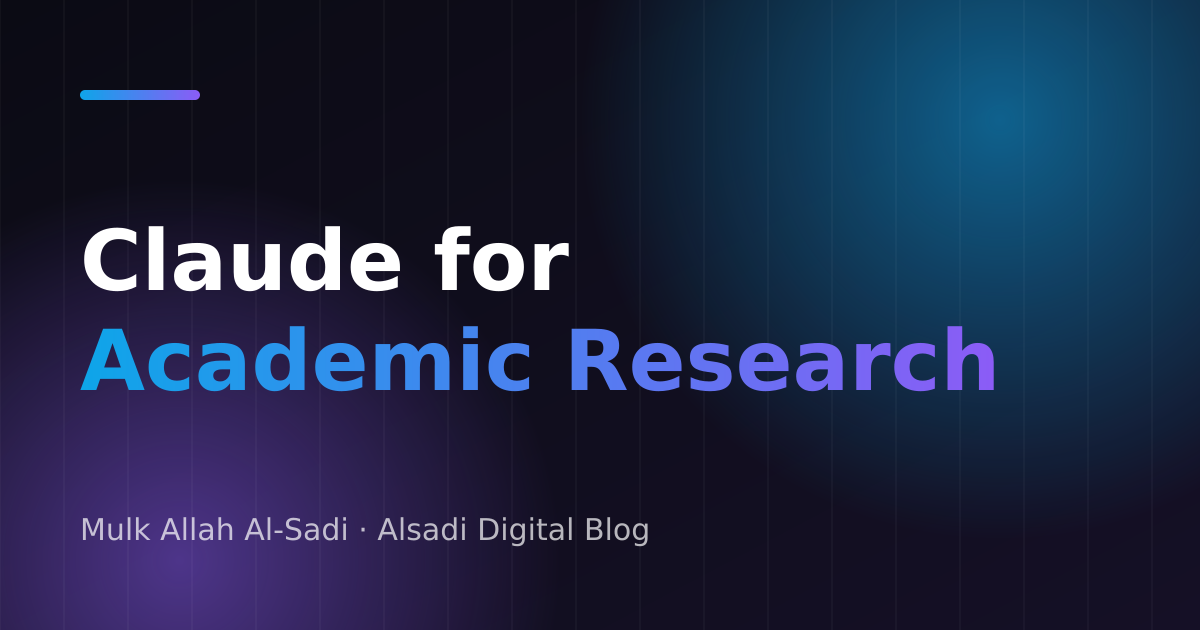
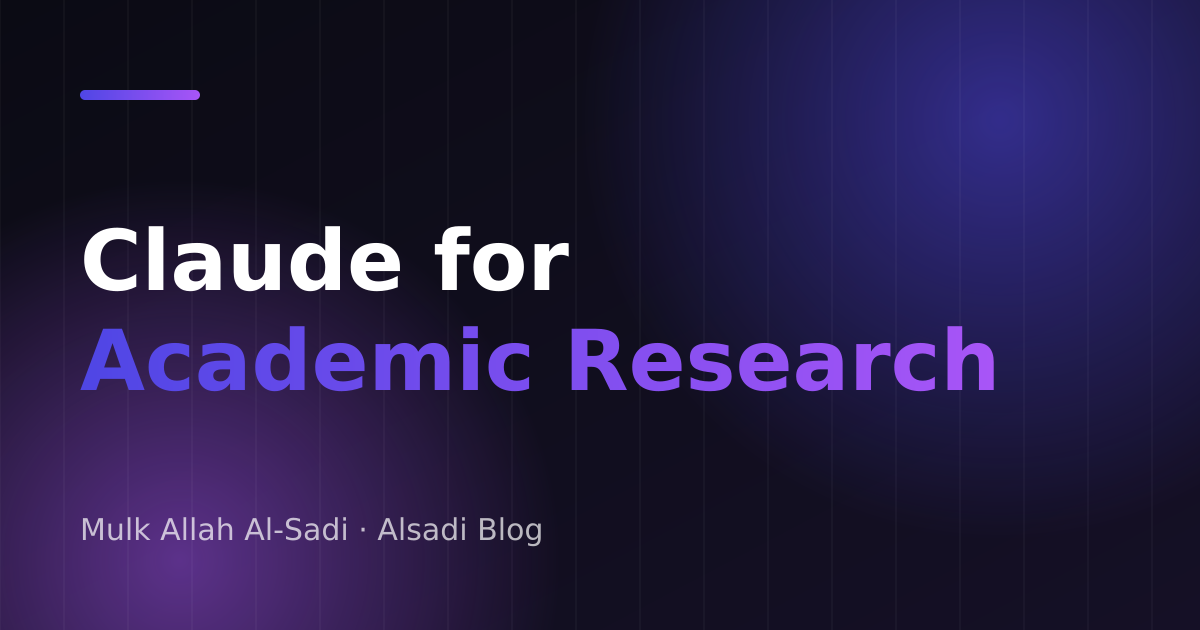
Rename brand from Alsadi Digital to Alsadi (السعدي)
- Nav/logo text, homepage hero and about, about/contact/blog metadata, OG site_name, JSON-LD publisher
- Store name: Alsadi Store / متجر السعدي (footer, metadata, emails' default sender name, order emails, admin default)
- manifest.json name, terms/privacy copy, README title, .env.example comment
- Blog covers re-rendered with 'Alsadi Blog' footer; cover URLs bumped to ?v=3
- Domain alsadidigital.com and the 'Digital Store' button label unchanged

Changed region(s): [[0.0617, 0.0, 1.0, 0.6333], [0.4008, 0.8143, 0.555, 0.8746], [0.0617, 0.1206, 0.1542, 0.181]]

diff --git a/src/components/site/company-home.tsx b/src/components/site/company-home.tsx
@@ -12,10 +12,10 @@ export const CONTACT_EMAIL = 'mulkallah7@gmail.com'
 
 const copy = {
   ar: {
-    badge: 'منصة السعدي الرقمية',
+    badge: 'منصة السعدي',
     title: 'منصة رقمية تجمع المعرفة والتقنية والمنتجات في مكان واحد',
     lead:
-      'السعدي الرقمية منصة عربية مستقلة أسسها ملك الله السعدي، طالب هندسة البرمجيات ومطوّر الـ full-stack، لتكون بيتًا واحدًا لثلاثة أشياء: متجر للمنتجات والدورات الرقمية، وخدمات برمجية وتقنية، ومحتوى تعليمي مجاني عن الذكاء الاصطناعي والإنتاجية.',
+      '«السعدي» منصة عربية مستقلة أسسها ملك الله السعدي، طالب هندسة البرمجيات ومطوّر الـ full-stack، لتكون بيتًا واحدًا لثلاثة أشياء: متجر للمنتجات والدورات الرقمية، وخدمات برمجية وتقنية، ومحتوى تعليمي مجاني عن الذكاء الاصطناعي والإنتاجية.',
     ctaStore: 'تصفّح المتجر الرقمي',
     ctaPortfolio: 'تعرّف على المؤسس',
     servicesTitle: 'ماذا تقدّم المنصة؟',
@@ -50,9 +50,9 @@ const copy = {
         link: 'اقرأ المدونة',
       },
     ],
-    aboutTitle: 'عن السعدي الرقمية',
+    aboutTitle: 'عن منصة السعدي',
     aboutBody: [
-      'بدأت السعدي الرقمية من قناعة بسيطة: المحتوى التقني الجيد باللغة العربية ما زال قليلًا، وكثير من الأدوات الحديثة تبدو معقدة لمن لم يجرّبها بعد. لذلك نحاول أن نقدم الشرح بلغة واضحة، والمنتج بجودة نثق بها، والخدمة بأسلوب يحترم وقت صاحبها.',
+      'بدأت منصة السعدي من قناعة بسيطة: المحتوى التقني الجيد باللغة العربية ما زال قليلًا، وكثير من الأدوات الحديثة تبدو معقدة لمن لم يجرّبها بعد. لذلك نحاول أن نقدم الشرح بلغة واضحة، والمنتج بجودة نثق بها، والخدمة بأسلوب يحترم وقت صاحبها.',
       'خلف المنصة مؤسسها ملك الله السعدي، طالب هندسة برمجيات ومطوّر full-stack، شغوف ببناء تقنيات ذكاء اصطناعي تُحدث أثرًا حقيقيًا في حياة الناس. كل ما تراه هنا، من المتجر إلى المدونة، مبني ومُدار بشكل مستقل.',
     ],
     aboutLink: 'اقرأ المزيد عنّا',
@@ -65,10 +65,10 @@ const copy = {
     contactCta: 'صفحة التواصل',
   },
   en: {
-    badge: 'Alsadi Digital Platform',
+    badge: 'Alsadi Platform',
     title: 'One digital platform for knowledge, technology and products',
     lead:
-      'Alsadi Digital is an independent Arabic platform founded by Mulk Allah Al-Sadi, a software engineering student and full-stack developer, to bring three things under one roof: a store for digital products and courses, software and tech services, and free educational content about AI and productivity.',
+      'Alsadi is an independent Arabic platform founded by Mulk Allah Al-Sadi, a software engineering student and full-stack developer, to bring three things under one roof: a store for digital products and courses, software and tech services, and free educational content about AI and productivity.',
     ctaStore: 'Browse the Digital Store',
     ctaPortfolio: 'Meet the founder',
     servicesTitle: 'What the platform offers',
@@ -103,9 +103,9 @@ const copy = {
         link: 'Read the blog',
       },
     ],
-    aboutTitle: 'About Alsadi Digital',
+    aboutTitle: 'About Alsadi',
     aboutBody: [
-      'Alsadi Digital started from a simple belief: good technical content in Arabic is still scarce, and many modern tools look complicated until someone explains them. So we aim for clear explanations, products we trust, and services that respect our clients’ time.',
+      'Alsadi started from a simple belief: good technical content in Arabic is still scarce, and many modern tools look complicated until someone explains them. So we aim for clear explanations, products we trust, and services that respect our clients’ time.',
       'Behind the platform is its founder, Mulk Allah Al-Sadi, a software engineering student and full-stack developer passionate about building AI technology that makes a real difference in people’s lives. Everything here, from the store to the blog, is built and run independently.',
     ],
     aboutLink: 'Read more about us',

diff --git a/src/app/(store)/terms/page.tsx b/src/app/(store)/terms/page.tsx
@@ -2,7 +2,7 @@ import { Metadata } from 'next'
 
 export const metadata: Metadata = {
   title: 'Terms of Service',
-  description: 'Terms of service for Alsadi Digital Store',
+  description: 'Terms of service for Alsadi Store',
 }
 
 export default function TermsPage() {
@@ -18,7 +18,7 @@ export default function TermsPage() {
         <section className="mb-8">
           <h2 className="text-2xl font-semibold mb-4">1. Acceptance of Terms</h2>
           <p className="text-muted-foreground">
-            By accessing and using Alsadi Digital Store, you accept and agree to be bound by 
+            By accessing and using Alsadi Store, you accept and agree to be bound by 
             these Terms of Service. If you do not agree to these terms, please do not use our services.
           </p>
         </section>
@@ -78,7 +78,7 @@ export default function TermsPage() {
           <h2 className="text-2xl font-semibold mb-4">6. Intellectual Property</h2>
           <p className="text-muted-foreground">
             All content on this platform, including but not limited to text, graphics, logos, 
-            and software, is the property of Alsadi Digital Store or its content suppliers and 
+            and software, is the property of Alsadi Store or its content suppliers and 
             is protected by intellectual property laws.
           </p>
         </section>
@@ -86,7 +86,7 @@ export default function TermsPage() {
         <section className="mb-8">
           <h2 className="text-2xl font-semibold mb-4">7. Limitation of Liability</h2>
           <p className="text-muted-foreground">
-            Alsadi Digital Store shall not be liable for any indirect, incidental, special, 
+            Alsadi Store shall not be liable for any indirect, incidental, special, 
             consequential, or punitive damages resulting from your use of or inability to use 
             our services or products.
           </p>

diff --git a/src/components/site/info-pages.tsx b/src/components/site/info-pages.tsx
@@ -23,7 +23,7 @@ function PageHero({ title, lead }: { title: string; lead: string }) {
 const about = {
   ar: {
     title: 'من نحن',
-    lead: 'السعدي الرقمية منصة عربية مستقلة تجمع المتجر الرقمي والخدمات التقنية والمحتوى التعليمي في مكان واحد.',
+    lead: '«السعدي» منصة عربية مستقلة تجمع المتجر الرقمي والخدمات التقنية والمحتوى التعليمي في مكان واحد.',
     sections: [
       {
         heading: 'قصتنا',
@@ -47,7 +47,7 @@ const about = {
   },
   en: {
     title: 'About us',
-    lead: 'Alsadi Digital is an independent Arabic platform that brings a digital store, tech services and educational content together in one place.',
+    lead: 'Alsadi is an independent Arabic platform that brings a digital store, tech services and educational content together in one place.',
     sections: [
       {
         heading: 'Our story',
@@ -55,7 +55,7 @@ const about = {
       },
       {
         heading: 'The founder',
-        body: 'Alsadi Digital was founded by Mulk Allah Al-Sadi, a software engineering student and full-stack developer passionate about building AI technology that serves healthcare and education and makes a real difference in people’s lives. His experience, projects and research are on the portfolio page.',
+        body: 'Alsadi was founded by Mulk Allah Al-Sadi, a software engineering student and full-stack developer passionate about building AI technology that serves healthcare and education and makes a real difference in people’s lives. His experience, projects and research are on the portfolio page.',
       },
       {
         heading: 'What we offer',

diff --git a/src/app/(site)/blog/page.tsx b/src/app/(site)/blog/page.tsx
@@ -2,14 +2,14 @@ import type { Metadata } from 'next'
 import { BlogIndex } from '@/components/blog/blog-pages'
 
 export const metadata: Metadata = {
-  title: { absolute: 'المدونة | Blog — Alsadi Digital' },
-  description: 'مدونة ملك الله السعدي على منصة السعدي الرقمية: مقالات عربية عملية عن أدوات الذكاء الاصطناعي مثل Claude وNotebookLM، والدورات المجانية، والإنتاجية.',
+  title: { absolute: 'المدونة | Blog — Alsadi' },
+  description: 'مدونة ملك الله السعدي على منصة السعدي: مقالات عربية عملية عن أدوات الذكاء الاصطناعي مثل Claude وNotebookLM، والدورات المجانية، والإنتاجية.',
   alternates: { canonical: '/blog' },
   openGraph: {
-    title: 'المدونة | Alsadi Digital Blog',
+    title: 'المدونة | Alsadi Blog',
     description: 'Practical articles about AI tools, free courses and productivity.',
     url: '/blog',
-    images: [{ url: '/blog/learn-claude-step-by-step.png', width: 1200, height: 630 }],
+    images: [{ url: '/blog/learn-claude-step-by-step.png?v=3', width: 1200, height: 630 }],
   },
 }
 

diff --git a/src/app/(site)/page.tsx b/src/app/(site)/page.tsx
@@ -2,12 +2,12 @@ import type { Metadata } from 'next'
 import { CompanyHome } from '@/components/site/company-home'
 
 export const metadata: Metadata = {
-  title: { absolute: 'Alsadi Digital | منصة السعدي الرقمية' },
+  title: { absolute: 'Alsadi | منصة السعدي' },
   description:
-    'منصة السعدي الرقمية: متجر للمنتجات والدورات الرقمية، وخدمات برمجية وتقنية، ومدونة عربية عن الذكاء الاصطناعي والإنتاجية، وبورتفوليو المؤسس ملك الله السعدي.',
+    'منصة السعدي: متجر للمنتجات والدورات الرقمية، وخدمات برمجية وتقنية، ومدونة عربية عن الذكاء الاصطناعي والإنتاجية، وبورتفوليو المؤسس ملك الله السعدي.',
   alternates: { canonical: '/' },
   openGraph: {
-    title: 'Alsadi Digital | منصة السعدي الرقمية',
+    title: 'Alsadi | منصة السعدي',
     description: 'Digital products and courses, software services, an AI & productivity blog, and the founder’s portfolio.',
     url: '/',
   },

diff --git a/src/app/(site)/blog/[slug]/page.tsx b/src/app/(site)/blog/[slug]/page.tsx
@@ -15,7 +15,7 @@ export function generateMetadata({ params }: { params: { slug: string } }): Meta
   if (!post) return {}
   const url = `/blog/${post.slug}`
   return {
-    title: { absolute: `${post.ar.title} | Alsadi Digital` },
+    title: { absolute: `${post.ar.title} | Alsadi` },
     description: post.ar.excerpt,
     keywords: post.tags,
     authors: [{ name: `${BLOG_AUTHOR.name.ar} (${BLOG_AUTHOR.name.en})`, url: BLOG_AUTHOR.url }],
@@ -53,7 +53,7 @@ export default function BlogPostPage({ params }: { params: { slug: string } }) {
     datePublished: post.date,
     inLanguage: ['ar', 'en'],
     mainEntityOfPage: `${base}/blog/${post.slug}`,
-    publisher: { '@type': 'Organization', name: 'Alsadi Digital', url: base },
+    publisher: { '@type': 'Organization', name: 'Alsadi', url: base },
     author: { '@type': 'Person', name: BLOG_AUTHOR.name.en, alternateName: BLOG_AUTHOR.name.ar, url: `${base}${BLOG_AUTHOR.url}`, image: `${base}${BLOG_AUTHOR.photo}` },
   }
   return (

diff --git a/src/lib/metadata.ts b/src/lib/metadata.ts
@@ -7,8 +7,8 @@ import type { Metadata } from 'next'
  */
 export async function getStoreName(language: 'en' | 'ar' = 'en'): Promise<string> {
   const translations: Record<'en' | 'ar', string> = {
-    en: 'Alsadi Digital Store',
-    ar: 'متجر السعدي الرقمي',
+    en: 'Alsadi Store',
+    ar: 'متجر السعدي',
   }
   return translations[language] || translations.en
 }
@@ -34,7 +34,7 @@ export async function generateBaseMetadata(language: 'en' | 'ar' = 'en'): Promis
       type: 'website',
       locale: language === 'ar' ? 'ar_SA' : 'en_US',
       url: appUrl,
-      siteName: storeName,
+      siteName: language === 'ar' ? 'السعدي' : 'Alsadi',
       title: `${storeName} - Premium Digital Products`,
       description: 'Discover premium digital products powered by AI.',
       images: [

diff --git a/src/app/(site)/contact/page.tsx b/src/app/(site)/contact/page.tsx
@@ -2,8 +2,8 @@ import type { Metadata } from 'next'
 import { ContactContent } from '@/components/site/info-pages'
 
 export const metadata: Metadata = {
-  title: { absolute: 'تواصل معنا | Contact — Alsadi Digital' },
-  description: 'تواصل مع منصة السعدي الرقمية عبر البريد الإلكتروني mulkallah7@gmail.com بخصوص المنتجات أو الخدمات البرمجية أو المدونة.',
+  title: { absolute: 'تواصل معنا | Contact — Alsadi' },
+  description: 'تواصل مع منصة السعدي عبر البريد الإلكتروني mulkallah7@gmail.com بخصوص المنتجات أو الخدمات البرمجية أو المدونة.',
   alternates: { canonical: '/contact' },
 }
 

diff --git a/src/app/(site)/about/page.tsx b/src/app/(site)/about/page.tsx
@@ -2,8 +2,8 @@ import type { Metadata } from 'next'
 import { AboutContent } from '@/components/site/info-pages'
 
 export const metadata: Metadata = {
-  title: { absolute: 'من نحن | About — Alsadi Digital' },
-  description: 'تعرّف على منصة السعدي الرقمية ومؤسسها ملك الله السعدي: متجر رقمي، وخدمات برمجية، ومدونة عربية عن الذكاء الاصطناعي.',
+  title: { absolute: 'من نحن | About — Alsadi' },
+  description: 'تعرّف على منصة السعدي ومؤسسها ملك الله السعدي: متجر رقمي، وخدمات برمجية، ومدونة عربية عن الذكاء الاصطناعي.',
   alternates: { canonical: '/about' },
 }
 

diff --git a/src/app/layout.tsx b/src/app/layout.tsx
@@ -13,7 +13,7 @@ const inter = Inter({ subsets: ['latin'], variable: '--font-inter' })
 
 const appUrl = process.env.NEXT_PUBLIC_APP_URL || 'https://www.alsadidigital.com'
 // Default store name (English) - individual pages can override with generateMetadata
-const defaultStoreName = 'Alsadi Digital Store'
+const defaultStoreName = 'Alsadi Store'
 
 export const metadata: Metadata = {
   metadataBase: new URL(appUrl),
@@ -38,7 +38,7 @@ export const metadata: Metadata = {
     type: 'website',
     locale: 'en_US',
     url: appUrl,
-    siteName: defaultStoreName,
+    siteName: 'Alsadi',
     title: `${defaultStoreName} - Premium Digital Products`,
     description: 'Discover premium digital products powered by AI.',
     images: [

diff --git a/src/components/providers/language-provider.tsx b/src/components/providers/language-provider.tsx
@@ -40,7 +40,7 @@ function getLanguageState(): Language {
 const translations: Record<Language, Record<string, string>> = {
   en: {
     // Store
-    'store.name': 'Alsadi Digital Store',
+    'store.name': 'Alsadi Store',
     // Navigation
     'nav.portfolio': 'Portfolio',
     'nav.products': 'Products',
@@ -470,7 +470,7 @@ const translations: Record<Language, Record<string, string>> = {
   },
   ar: {
     // Store
-    'store.name': 'متجر السعدي الرقمي',
+    'store.name': 'متجر السعدي',
     // Navigation
     'nav.portfolio': 'البورتفوليو',
     'nav.products': 'المنتجات',

diff --git a/src/content/blog/posts/data-analytics.ts b/src/content/blog/posts/data-analytics.ts
@@ -3,7 +3,7 @@ import type { BlogPost } from '../types'
 export const post: BlogPost = {
   slug: 'data-analytics-roadmap-for-beginners',
   date: '2026-10-30',
-  cover: '/blog/data-analytics-roadmap-for-beginners.png?v=2',
+  cover: '/blog/data-analytics-roadmap-for-beginners.png?v=3',
   coverLines: ['Data Analytics', 'Essentials + AI'],
   coverAlt: { ar: 'غلاف مقال تعلم تحليل البيانات مع دورة Cisco والذكاء الاصطناعي', en: 'Cover: data analytics with Cisco and AI' },
   tags: ['Data', 'Cisco', 'SQL'],
